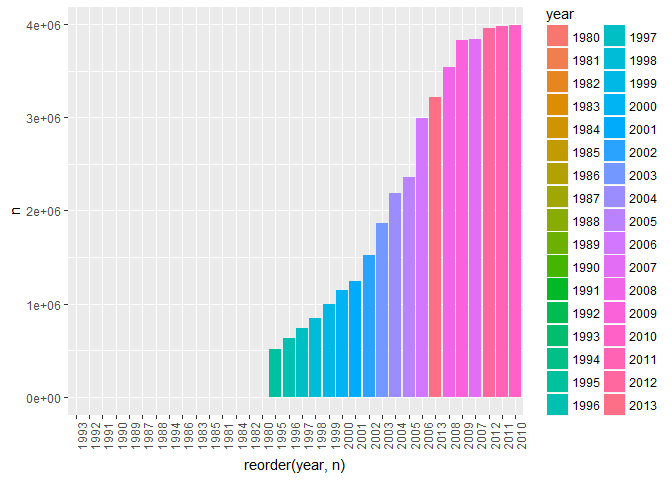
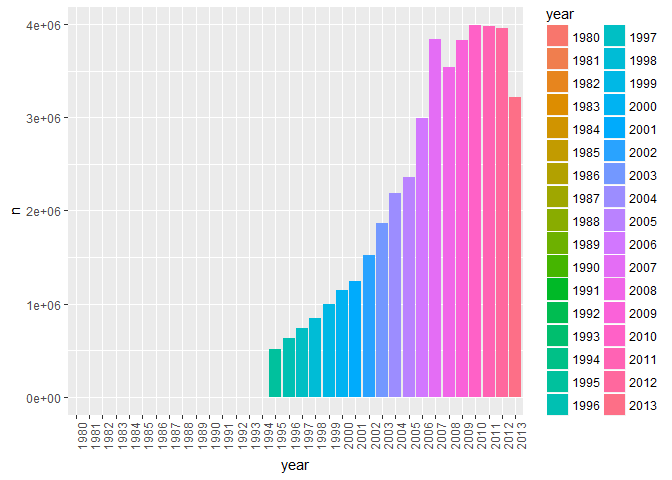
change a plot

diff --git a/R-club-June-21/06_21_2017.html b/R-club-June-21/06_21_2017.html
@@ -532,10 +532,10 @@ who5</code></pre>
   group_by(year) %&gt;%
   tally(value) %&gt;%
   mutate(year = as.character(year)) %&gt;%
-  ggplot(aes(reorder(year, n),n, fill = year)) +
+  ggplot(aes(year,n, fill = year)) +
   geom_col() +
   theme(axis.text.x = element_text(angle = 90, hjust = 1))</code></pre>
[2 lines of base64/hex data omitted]
 <pre class="r"><code>who %&gt;%
   gather(code, value, new_sp_m014:newrel_f65, na.rm = TRUE) %&gt;% 
   select(year,value) %&gt;%

diff --git a/R-club-June-21/06_21_2017.md b/R-club-June-21/06_21_2017.md
@@ -600,7 +600,7 @@ who %>%
   group_by(year) %>%
   tally(value) %>%
   mutate(year = as.character(year)) %>%
-  ggplot(aes(reorder(year, n),n, fill = year)) +
+  ggplot(aes(year,n, fill = year)) +
   geom_col() +
   theme(axis.text.x = element_text(angle = 90, hjust = 1))
 ```
